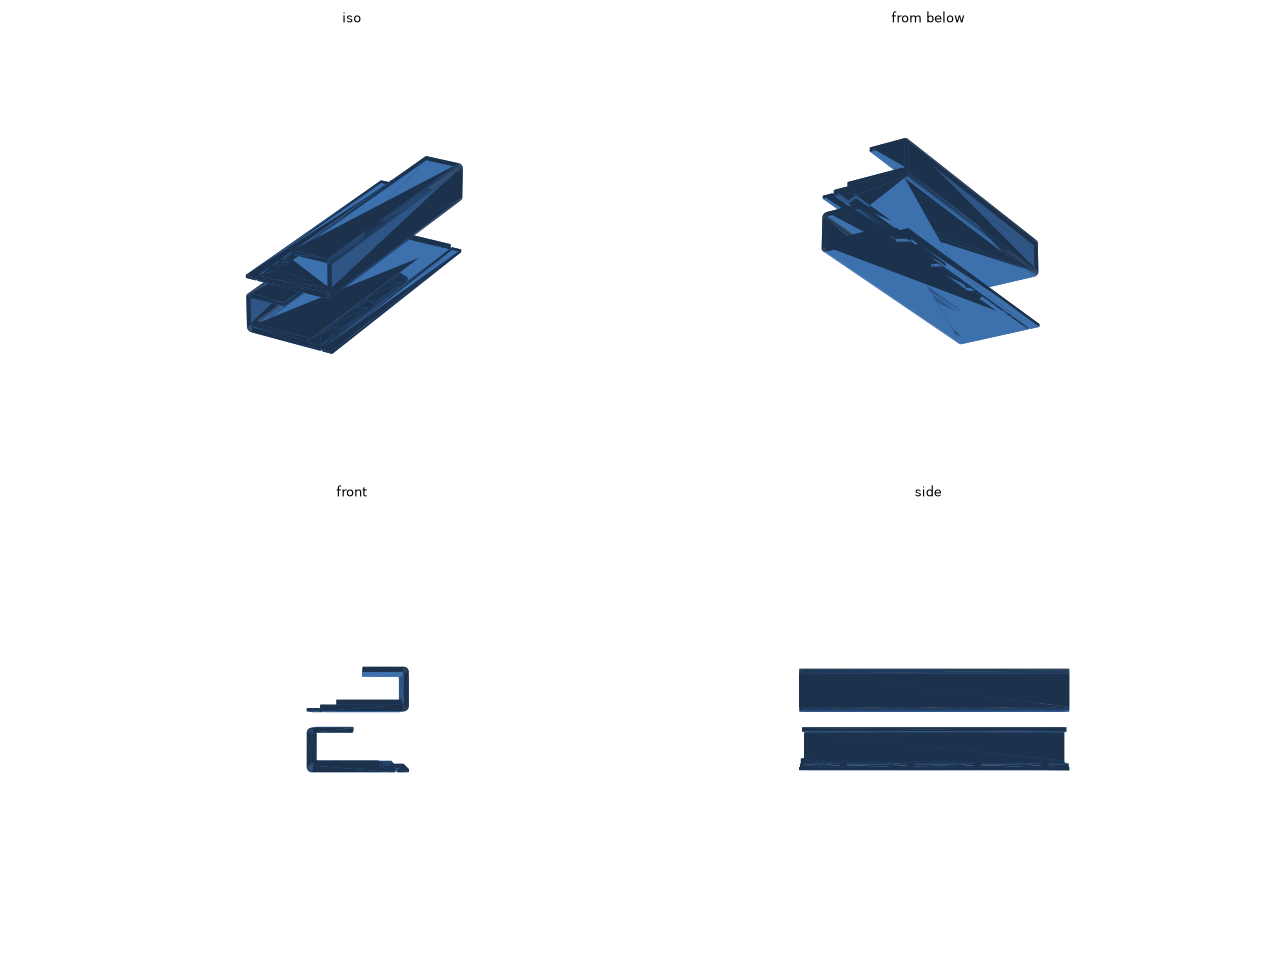
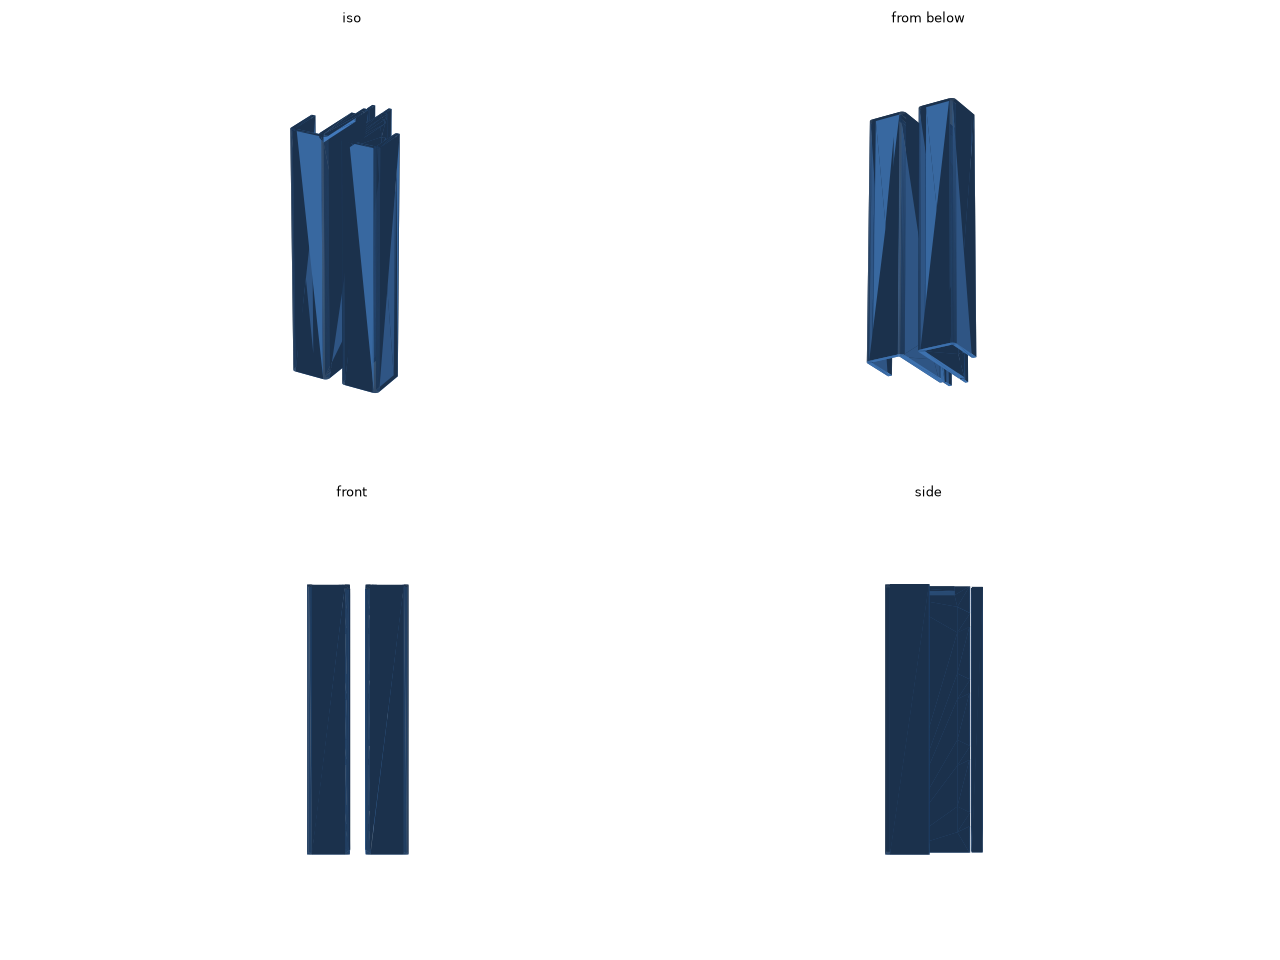
fix: iPad トレーのレールを寝かせた向きで書き出す
立てると高さ 170 mm の細い部品になり、印刷中にぐらつくので、外側の
壁の面を下にして寝かせた。高さは 61.9 mm になり、サポートも要らない。

diff --git a/ipad-pro-11-tray/README.md b/ipad-pro-11-tray/README.md
@@ -28,7 +28,7 @@ STL は 2 つあります。
 | ![rails](images/preview-rails.png) | ![plate](images/preview-plate.png) |
 
 - 2 回に分けて印刷します。どちらもそのまま置けば、サポートなしで印刷できます。
-  - レール: 2 本を並べ、手前の端の面を下にした向きです。プレートの上では 61.9 × 64.0 mm、高さ 170 mm です。
+  - レール: 2 本を、外側の壁の面を下にして寝かせた向きです。プレートの上では 64.0 × 170.0 mm、高さ 61.9 mm です。立てると高さ 170 mm の細い部品になり、印刷中にぐらつきやすいので寝かせています。
   - 真ん中の板: 上面を下にした向きです。166 × 170 mm、厚さ 4 mm です。
 - 素材は PLA でも PETG でもかまいません。
 - 蟻の凸がきつくて入らないときは、`DT_GAP` を 0.1 mm ずつ増やしてください。
